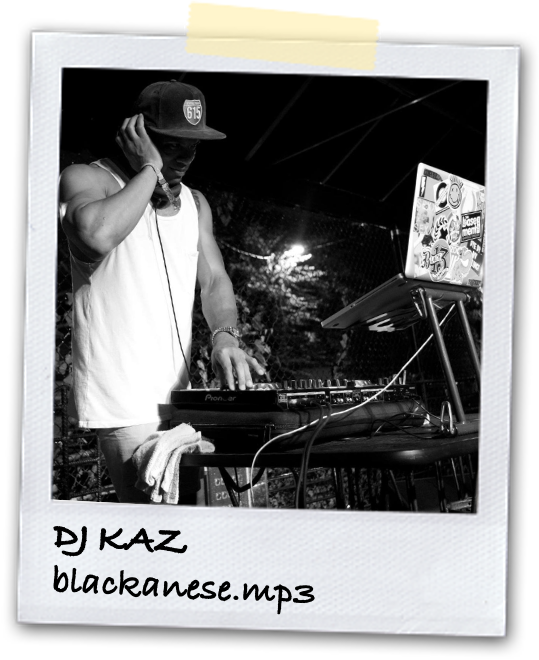
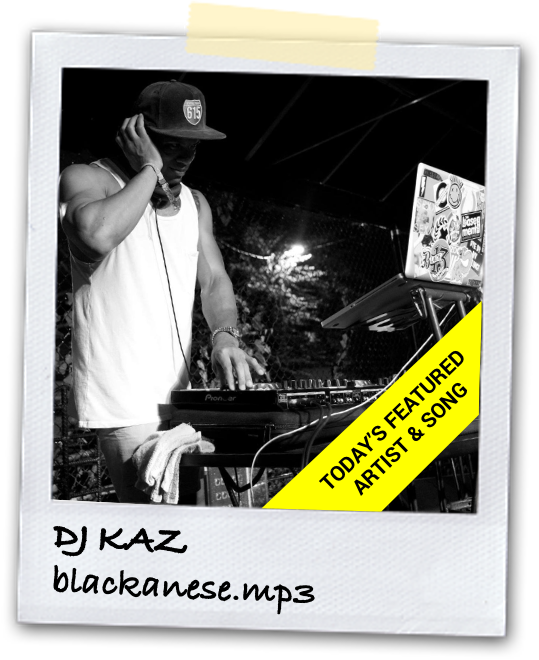
discovered onTouchStart event

Changed region(s): [[0.475, 0.4545, 0.9202, 0.7879]]

diff --git a/client/src/components/Cards/index.js b/client/src/components/Cards/index.js
@@ -41,11 +41,11 @@ function Cards () {
           <Swipes ref={childRefs[index]} className='swipe' key={character.url} onSwipe={(dir) => swiped(dir, character.name)} onCardLeftScreen={() => outOfFrame(character.name)}>
             <div style={{ backgroundImage: 'url(' + character.url + ')' }} className='card'>
             <Link to={`profile/${character.name}`}>
-              <h3>by {character.name}</h3>
+              <h3 onTouchStart={() => window.location.assign('profile/'+`${character.name}`)}>by {character.name}</h3>
             </Link>
             <Link to={`thought/${character.id}`}>
             <div className="buttons">
-              <button className="button">Comment</button>
+              <button className="button" onTouchStart={() => window.location.assign('thought/'+`${character.id}`)}>Comment</button>
             </div>
             </Link>
             </div>
@@ -54,7 +54,7 @@ function Cards () {
       </div>
       <br /><br />
       <div className="textcontainer centered px-3">
-      <h3 className='infoText'>Press play, swipe through the art, comment on what you like, follow artists and submit your own art!</h3>
+      <h3 className='infoText'>Listen to the song, swipe through the art, and comment on what you like!</h3>
       </div>
       {/*<div className='buttons hidden'>
         <button onClick={() => swipe('left')}>No</button>

diff --git a/client/src/components/Footer/index.js b/client/src/components/Footer/index.js
@@ -3,7 +3,7 @@ import Blackanese from '../../assets/Blackanese.mp3';
 
 const Footer = () => {
   return (
-    <footer className="w-100 mt-auto p-4">
+    <footer className="w-100 mt-auto mb-4 pb-6">
       <audio id="player" allow="autoplay" loop controls>
         <source src={Blackanese} type="audio/mpeg" />
       </audio><br />

diff --git a/client/src/App.js b/client/src/App.js
@@ -50,7 +50,6 @@ function App() {
             <Route exact path="/profile/:username?" component={Profile} />
             <Route exact path="/thought/:id" component={SingleThought} />
             <Route exact path="/submit" component={Submit} />
-
             <Route component={NoMatch} />
           </Switch>
           </div>

diff --git a/client/src/index.css b/client/src/index.css
@@ -12,6 +12,7 @@
   --spacing-three: 1rem;
   --spacing-four: calc(1rem * 1.5);
   --spacing-five: calc(1rem * 3);
+  --spacing-six: calc(1rem * 6);
 }
 
 * {
@@ -688,6 +689,10 @@ nav a:hover {
 
 .pb-5 {
   padding-bottom: var(--spacing-five);
+}
+
+.pb-6 {
+  padding-bottom: var(--spacing-six);
 }
 
 .pb-auto {

diff --git a/client/src/pages/Home.js b/client/src/pages/Home.js
@@ -22,9 +22,6 @@ const Home = () => {
     {loggedIn ? (
       < Cards />
     ):( <div className="textcontainer">
-      <h3 className='infoText px-3'>
-      Today's Featured Artist and song:
-      </h3>
       <img src="/cover.png" alt="DJKAZ" style={{width:350}}/>
       </div>
     )}

diff --git a/client/src/pages/Submit.js b/client/src/pages/Submit.js
@@ -18,6 +18,7 @@ const Submit = () => {
   <div className="flex-row justify-space-between">
     {loggedIn ? (
       <div className="col-12 mb-3">
+      <h3>Submit your own art for this song!</h3>
         <ThoughtForm />
       </div>
     ):( <div className="col-12 mb-3">

diff --git a/client/public/index.html b/client/public/index.html
@@ -29,6 +29,8 @@
   </head>
   <body>
     <noscript>You need to enable JavaScript to run this app.</noscript>
+    <script>
+    </script>
     <div id="root"></div>
     <!--
       This HTML file is a template.
